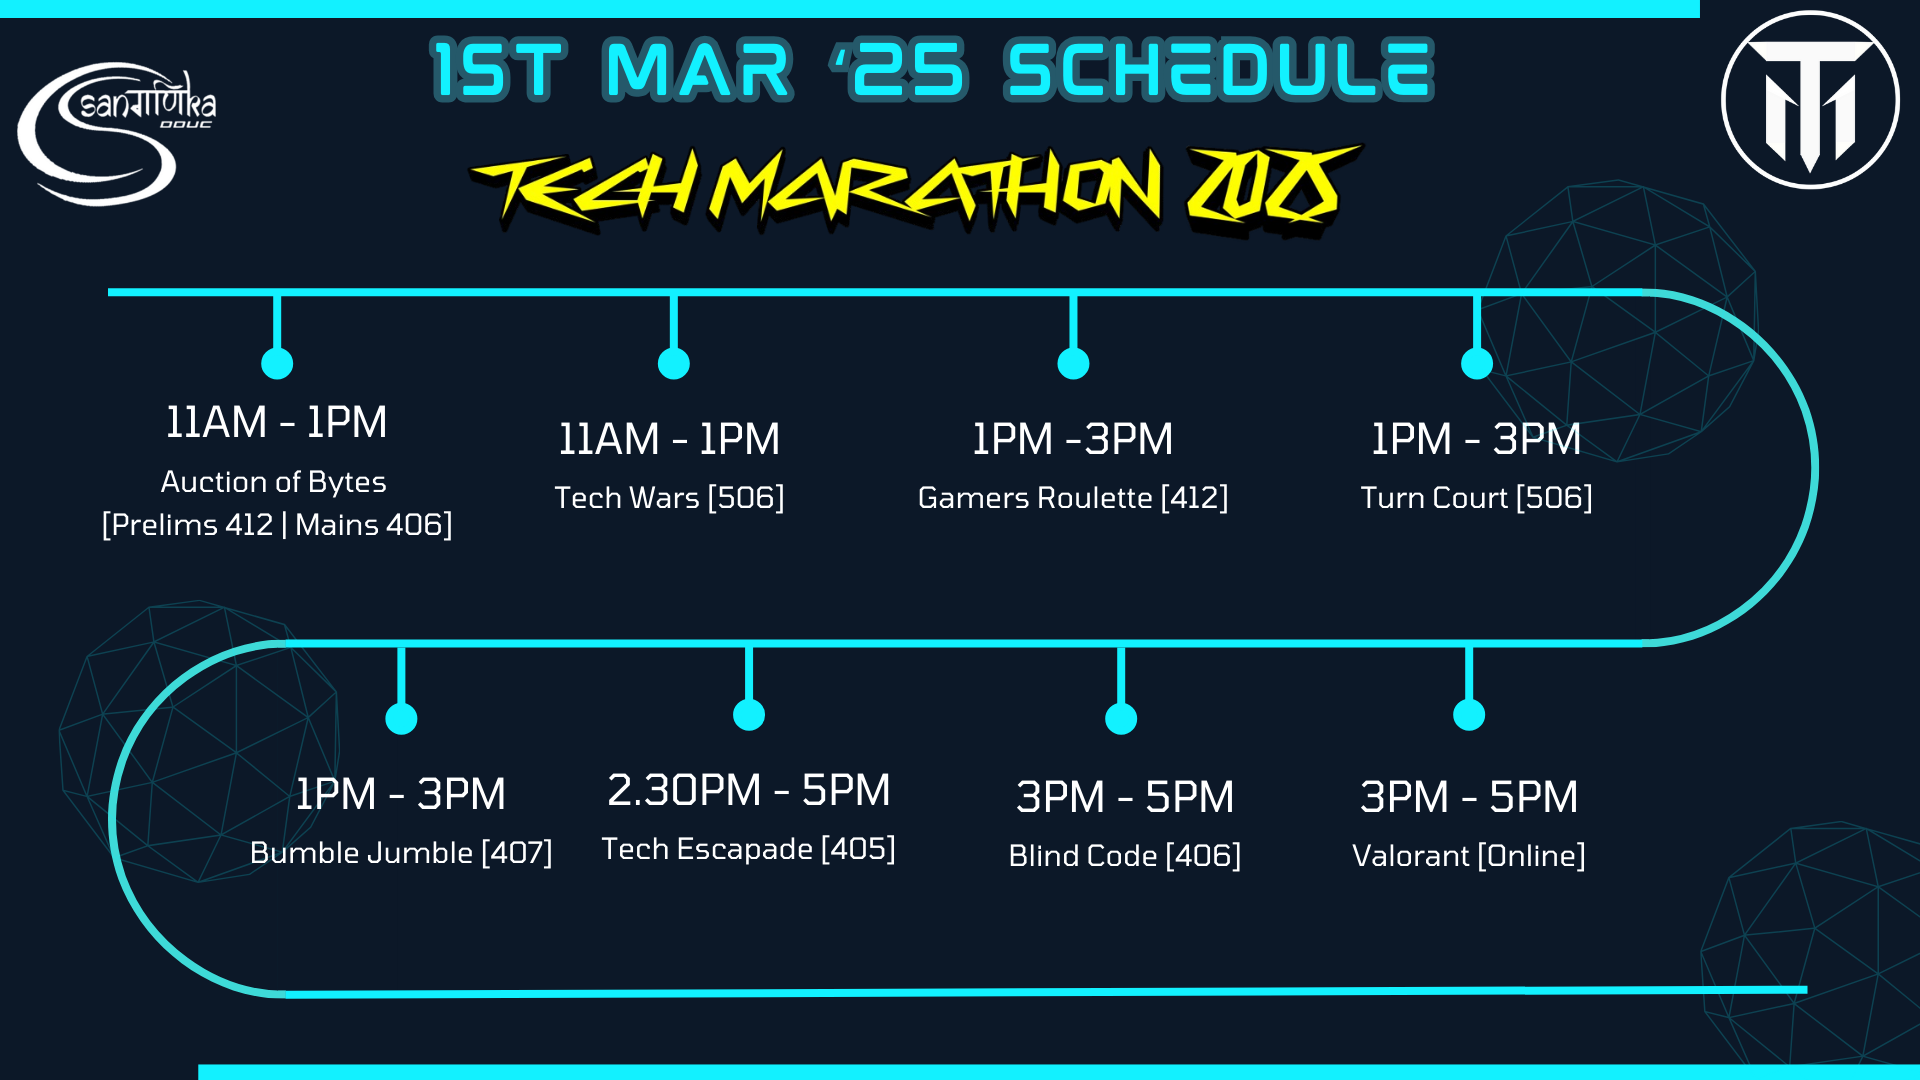
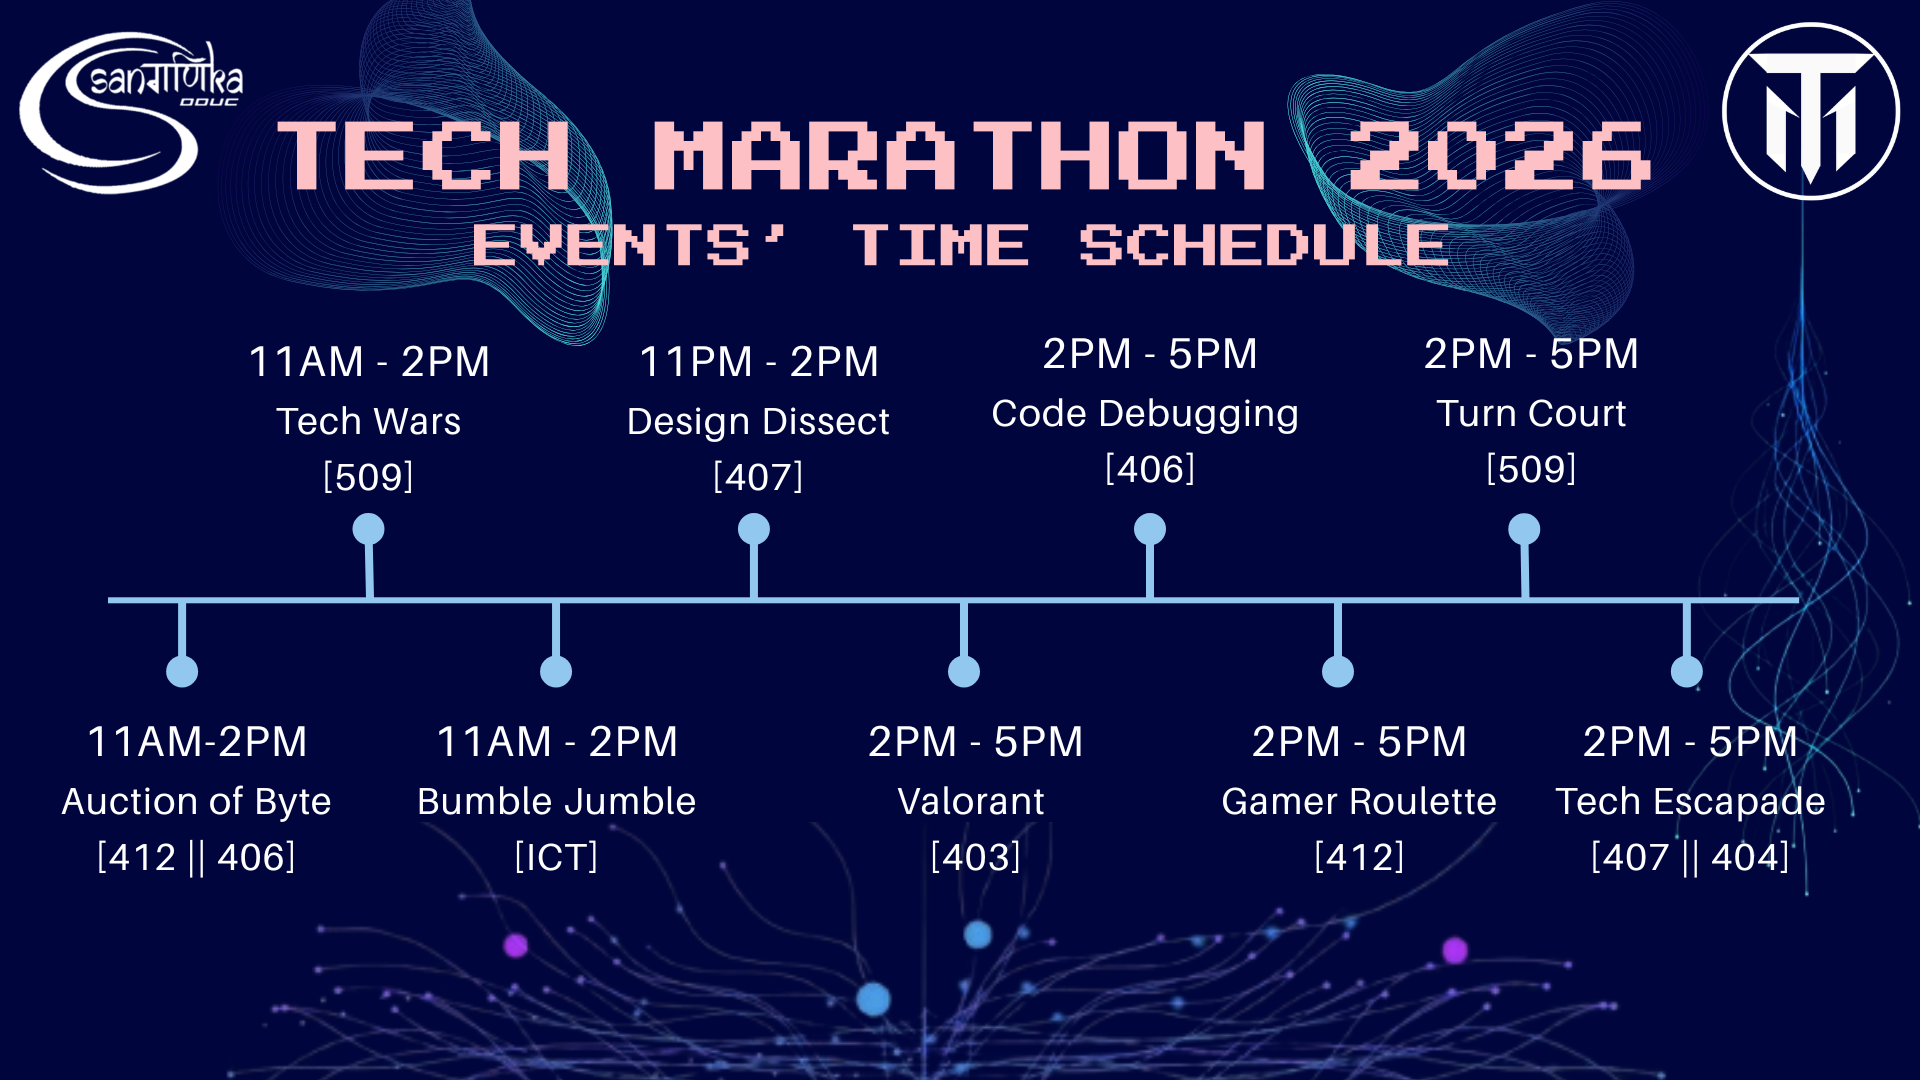
Added Code Debugging and Design Dissect events for Tech Marathon 2026

Changed region(s): [[0.0, 0.0, 1.0, 1.0], [0.9688, 0.8861, 1.0, 0.9167], [0.0938, 0.8861, 0.125, 0.9167]]

diff --git a/public/content/TM/aob.md b/public/content/TM/aob.md
@@ -5,8 +5,8 @@
 # Details
 
 - **Venue** - Deen Dayal Upadhyaya College, Delhi University, Dwarka sector 3,(nearest metro station Dwarka mor)
-- **Date** - 2nd March,2024
-- **Time** - 111:00 am onwards
+- **Date** - 20th March 2026
+- **Time** - 11AM - 2PM
 - **Last date to apply**: 1<sup>st</sup> March, 2024
 
 ---
